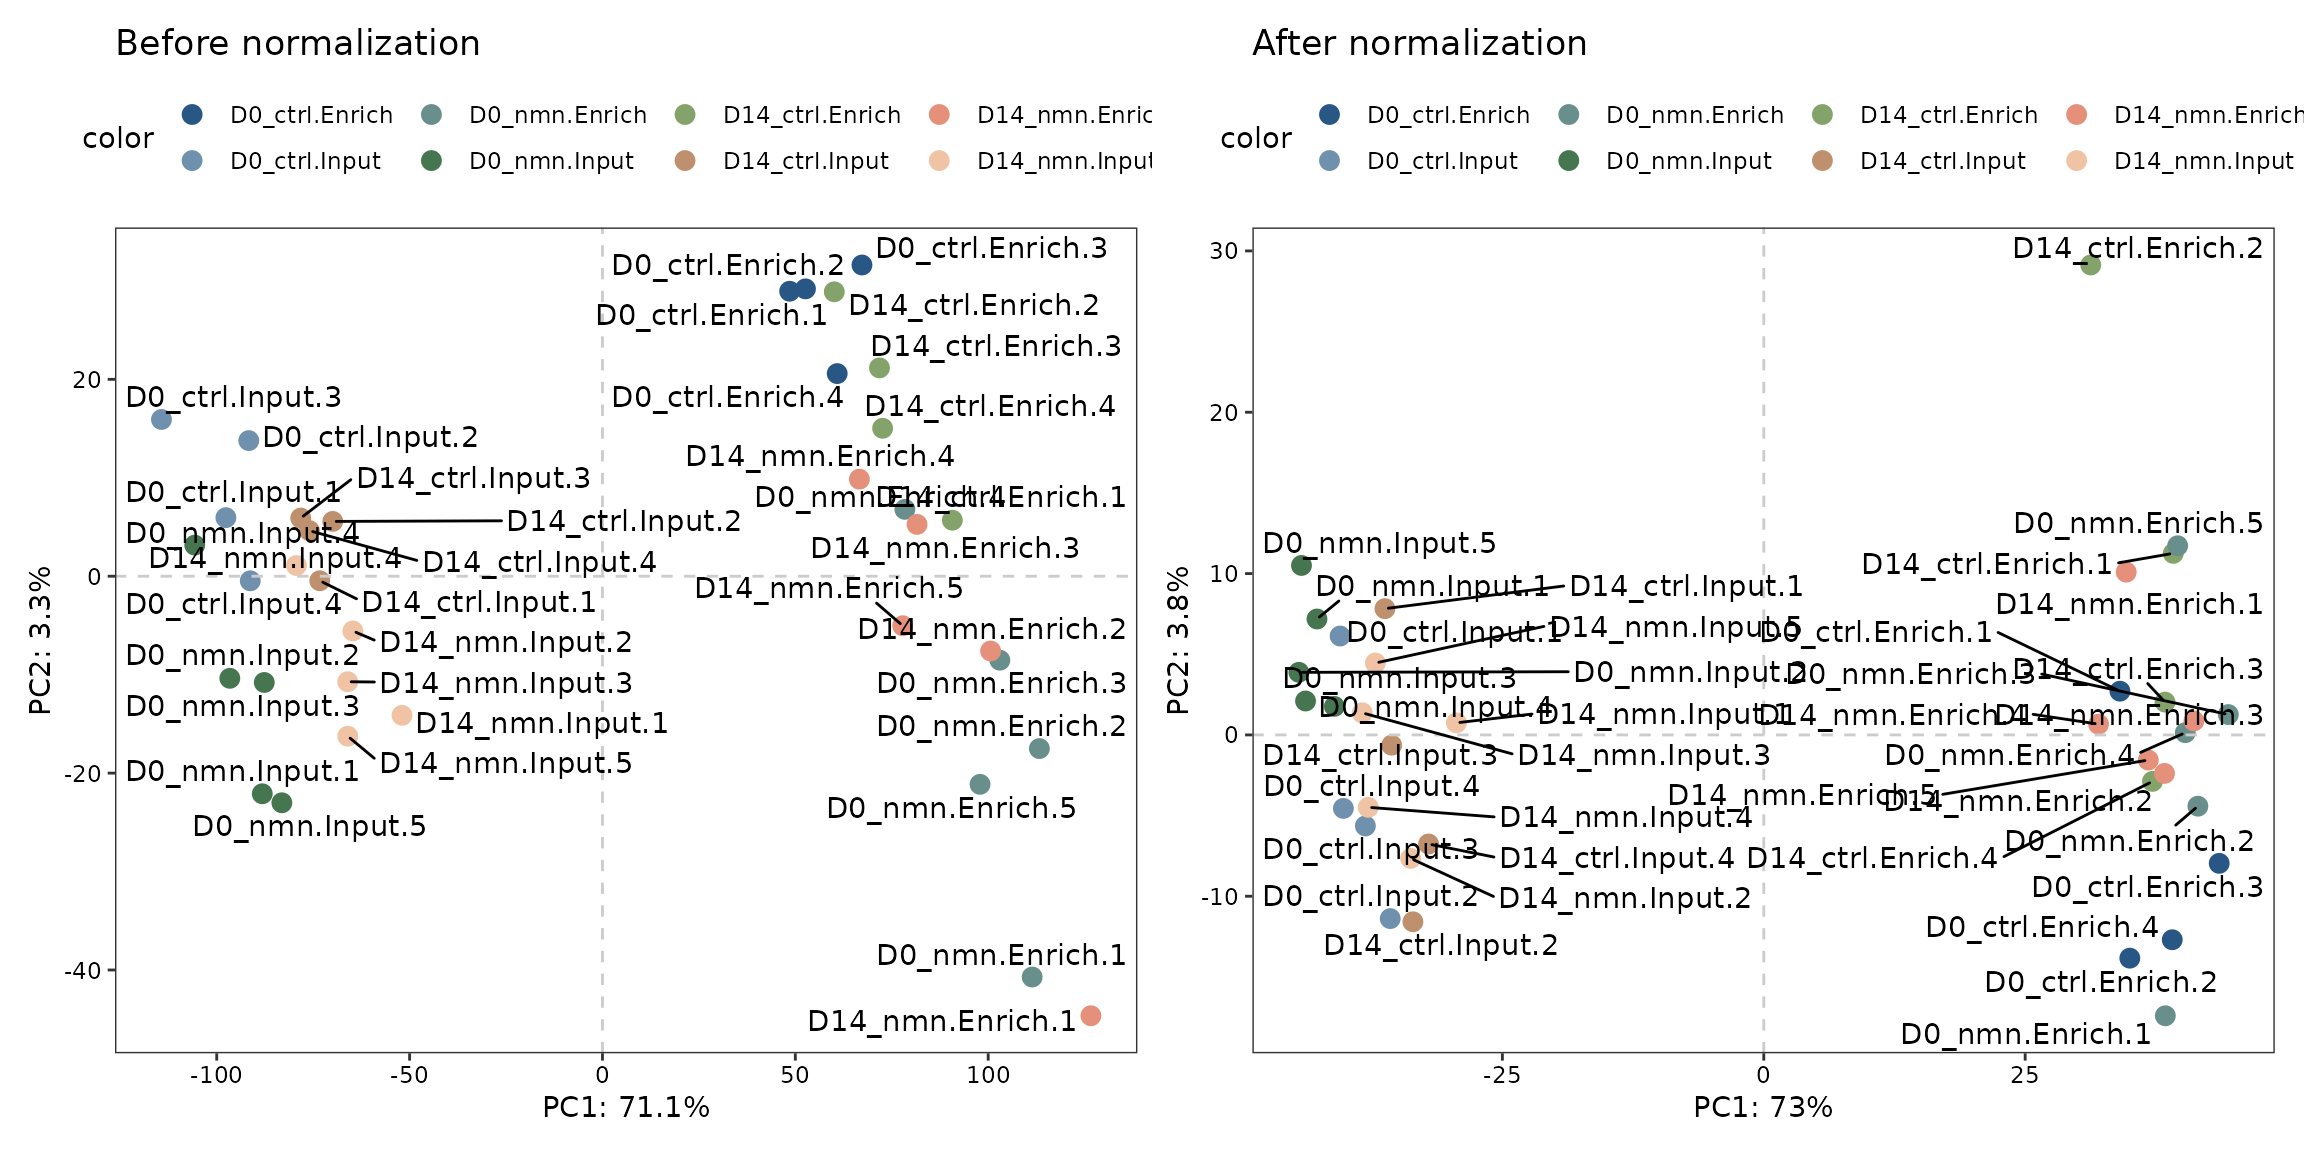
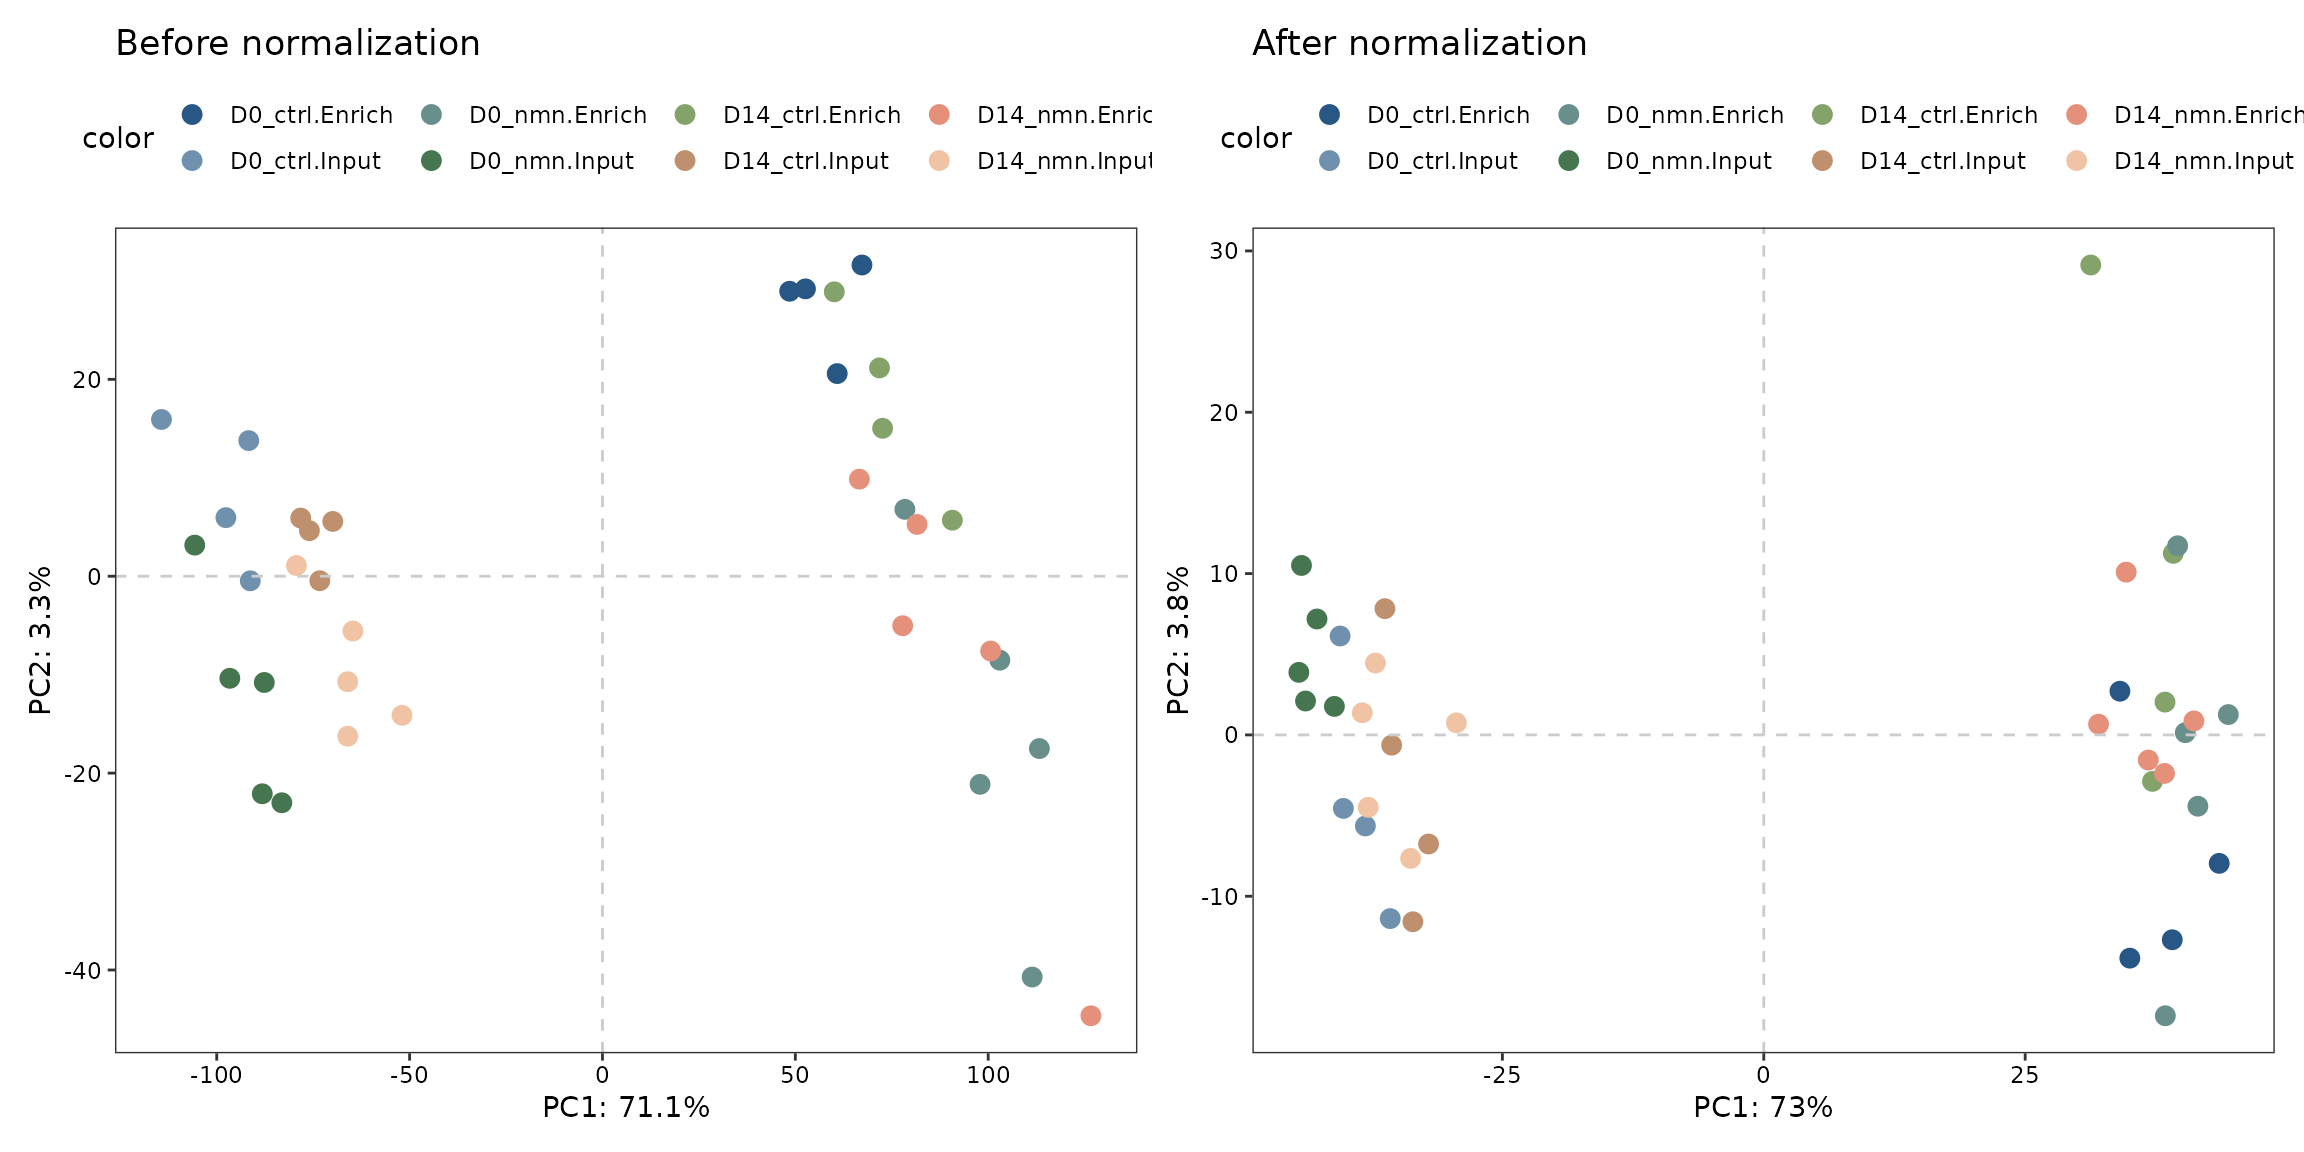
Deploying to gh-pages from @ thereallda/enONE@a7009a5155db5d42bd4f8777e02ee4b5a869709d 🚀

diff --git a/articles/enONE_tutorial.html b/articles/enONE_tutorial.html
@@ -109,7 +109,7 @@ organism with well-annotated genome sequence, for estimating the
 unwanted variation; 2) synthetic RNAs, consisting of 5% NAD- relative to
 m7G-capped forms, were used to determine the capture sensitivity; 3)
 synthetic RNAs, with 100% m7G-capped forms, were used to determine the
-capture specificity (Figure 2A).</p>
+capture specificity (Figure below).</p>
 <p>There are 36 samples that were sequenced on the Illumina Novaseq
 6000. The raw data can be found at <a href="https://www.ncbi.nlm.nih.gov/geo/query/acc.cgi?&amp;acc=GSE221133" class="external-link">GSE221133</a>.</p>
 <p><img src="images/paste-BE49259B.png"></p>
@@ -285,9 +285,10 @@ genes for evaluation of the unwanted variations.</p></li>
 samples of interest, ranked by edgeR FDR values, as positive evaluation
 genes for evaluation of the wanted variations.</p></li>
 </ul>
-<p>Gene selection can either be automatically defined in
-<code>enONE</code> function with <code>auto=TRUE</code> parameter, or be
-provided in <code>neg.control, pos.eval, neg.eval</code> parameters,
+<p>Gene set selection can either be automatically defined in
+<code>enONE</code> function with <code>auto=TRUE</code> parameter
+(default), or be provided in
+<code>neg.control, pos.eval, neg.eval</code> parameters,
 respectively.</p>
 <p>Selected gene sets can be assessed by <code>getGeneSet</code> with
 the name of gene set (i.e., <code>"NegControl"</code>,
@@ -378,16 +379,16 @@ maximum average silhouette width of clusters defined by PAM clustering
 (cluster by <code>eval.pam.k</code>), computed with the Euclidean
 distance metric over the first 3 expression PCs (default). Large values
 of <code>BAT_SIM</code> is desirable.</p></li>
-<li><p><code>WV_COR</code>: Preservation of biological variation. R^2
-measure for regression of first 3 expression PCs on first
+<li><p><code>WV_COR</code>: Preservation of biological variation.
+R<sup>2</sup> measure for regression of first 3 expression PCs on first
 <code>eval.pc.n</code> PCs of the positive evaluation genes
 (<code>PosEvaluation</code>) sub-matrix of the raw count. Large values
 of <code>WV_COR</code> is desirable.</p></li>
-<li><p><code>UV_COR</code>: Removal of unwanted variation. R^2 measure
-for regression of first 3 expression PCs on first <code>eval.pc.n</code>
-PCs of the negative evaluation genes (<code>NegEvaluation</code>)
-sub-matrix of the raw count. Low values of <code>UV_COR</code> is
-desirable.</p></li>
+<li><p><code>UV_COR</code>: Removal of unwanted variation. R<sup>2</sup>
+measure for regression of first 3 expression PCs on first
+<code>eval.pc.n</code> PCs of the negative evaluation genes
+(<code>NegEvaluation</code>) sub-matrix of the raw count. Low values of
+<code>UV_COR</code> is desirable.</p></li>
 <li><p><code>RLE_MED</code>: The mean squared-median Relative Log
 Expression (RLE). Low values of <code>RLE_MED</code> is
 desirable.</p></li>
@@ -464,15 +465,14 @@ analysis.</p>
 <span><span class="co">#&gt; [1] "TMM_RUVse_k3"</span></span></code></pre></div>
 <blockquote>
 <p>To be noted, if normalized counts are not returned in
-<code>enONE</code> run step, you have to mannually perform the
-normalization method, before get the corresponding normalized counts,
-e.g.,</p>
-</blockquote>
+<code>enONE</code> run step (i.e., <code>return.norm=FALSE</code>), you
+can manually perform the normalization method, e.g.,</p>
 <div class="sourceCode" id="cb13"><pre class="downlit sourceCode r">
 <code class="sourceCode R"><span><span class="co"># perform normalization</span></span>
 <span><span class="va">Enone</span> <span class="op">&lt;-</span> <span class="fu"><a href="../reference/UseNormalization.html">UseNormalization</a></span><span class="op">(</span><span class="va">Enone</span>, slot <span class="op">=</span> <span class="st">'sample'</span>, method <span class="op">=</span> <span class="st">'TMM_RUVse_k3'</span><span class="op">)</span></span>
 <span><span class="co"># get normalized counts</span></span>
 <span><span class="va">norm.data</span> <span class="op">&lt;-</span> <span class="fu"><a href="../reference/Counts.html">Counts</a></span><span class="op">(</span><span class="va">Enone</span>, slot <span class="op">=</span> <span class="st">'sample'</span>, method <span class="op">=</span> <span class="va">norm.method</span><span class="op">)</span></span></code></pre></div>
+</blockquote>
 </div>
 <div class="section level2">
 <h2 id="effect-of-normalization">Effect of normalization<a class="anchor" aria-label="anchor" href="#effect-of-normalization"></a>
@@ -487,14 +487,16 @@ normalization.</p>
 <span><span class="co"># PCA for raw count</span></span>
 <span><span class="va">p1</span> <span class="op">&lt;-</span> <span class="fu"><a href="../reference/PCAplot.html">PCAplot</a></span><span class="op">(</span><span class="fu"><a href="https://rdrr.io/r/base/Log.html" class="external-link">log1p</a></span><span class="op">(</span><span class="fu"><a href="../reference/Counts.html">Counts</a></span><span class="op">(</span><span class="va">Enone</span>, slot<span class="op">=</span><span class="st">'sample'</span>, <span class="st">'Raw'</span><span class="op">)</span><span class="op">)</span>, </span>
 <span>            color <span class="op">=</span> <span class="va">Enone</span><span class="op">$</span><span class="va">condition</span>,</span>
-<span>            label <span class="op">=</span> <span class="va">samples_name</span>, vst.norm <span class="op">=</span> <span class="cn">FALSE</span><span class="op">)</span> <span class="op">+</span> </span>
+<span>            label <span class="op">=</span> <span class="cn">NULL</span>, vst.norm <span class="op">=</span> <span class="cn">FALSE</span><span class="op">)</span> <span class="op">+</span> </span>
 <span>  <span class="fu"><a href="https://ggplot2.tidyverse.org/reference/labs.html" class="external-link">ggtitle</a></span><span class="op">(</span><span class="st">'Before normalization'</span><span class="op">)</span></span>
 <span></span>
 <span><span class="co"># PCA for normalized count</span></span>
 <span><span class="va">p2</span> <span class="op">&lt;-</span> <span class="fu"><a href="../reference/PCAplot.html">PCAplot</a></span><span class="op">(</span><span class="fu"><a href="https://rdrr.io/r/base/Log.html" class="external-link">log1p</a></span><span class="op">(</span><span class="va">norm.data</span><span class="op">)</span>, </span>
 <span>            color <span class="op">=</span> <span class="va">Enone</span><span class="op">$</span><span class="va">condition</span>,</span>
-<span>            label <span class="op">=</span> <span class="va">samples_name</span>, vst.norm <span class="op">=</span> <span class="cn">FALSE</span><span class="op">)</span> <span class="op">+</span> </span>
+<span>            label <span class="op">=</span> <span class="cn">NULL</span>, vst.norm <span class="op">=</span> <span class="cn">FALSE</span><span class="op">)</span> <span class="op">+</span> </span>
 <span>  <span class="fu"><a href="https://ggplot2.tidyverse.org/reference/labs.html" class="external-link">ggtitle</a></span><span class="op">(</span><span class="st">'After normalization'</span><span class="op">)</span></span>
+<span></span>
+<span><span class="co"># combine two plots</span></span>
 <span><span class="va">p1</span> <span class="op">+</span> <span class="va">p2</span></span></code></pre></div>
 <p><img src="enONE_tutorial_files/figure-html/unnamed-chunk-15-1.png" width="1152"></p>
 </div>
@@ -517,8 +519,10 @@ result tables.</p>
 <code class="sourceCode R"><span><span class="co"># find all enriched genes</span></span>
 <span><span class="va">Enone</span> <span class="op">&lt;-</span> <span class="fu"><a href="../reference/FindEnrichment.html">FindEnrichment</a></span><span class="op">(</span><span class="va">Enone</span>, slot<span class="op">=</span><span class="st">'sample'</span>, method <span class="op">=</span> <span class="va">norm.method</span>, </span>
 <span>                        logfc.cutoff <span class="op">=</span> <span class="fl">1</span>, p.cutoff <span class="op">=</span> <span class="fl">0.05</span><span class="op">)</span></span>
+<span></span>
 <span><span class="co"># get filtered enrichment results</span></span>
 <span><span class="va">res.sig.ls</span> <span class="op">&lt;-</span> <span class="fu"><a href="../reference/getEnrichment.html">getEnrichment</a></span><span class="op">(</span><span class="va">Enone</span>, slot<span class="op">=</span><span class="st">'sample'</span>, filter<span class="op">=</span><span class="cn">TRUE</span><span class="op">)</span></span>
+<span></span>
 <span><span class="co"># count number of enrichment in each group</span></span>
 <span><span class="fu"><a href="https://rdrr.io/r/base/unlist.html" class="external-link">unlist</a></span><span class="op">(</span><span class="fu"><a href="https://rdrr.io/r/base/lapply.html" class="external-link">lapply</a></span><span class="op">(</span><span class="va">res.sig.ls</span>, <span class="va">nrow</span><span class="op">)</span><span class="op">)</span></span>
 <span><span class="co">#&gt;   D0_ctrl.Enrich_D0_ctrl.Input D14_ctrl.Enrich_D14_ctrl.Input </span></span>
@@ -563,10 +567,13 @@ modification level between groups.</p>
 <div class="sourceCode" id="cb17"><pre class="downlit sourceCode r">
 <code class="sourceCode R"><span><span class="co"># simplify group id</span></span>
 <span><span class="fu"><a href="https://rdrr.io/r/base/names.html" class="external-link">names</a></span><span class="op">(</span><span class="va">res.sig.ls</span><span class="op">)</span> <span class="op">&lt;-</span> <span class="fu"><a href="https://rdrr.io/r/base/c.html" class="external-link">c</a></span><span class="op">(</span><span class="st">'D0.Water'</span>, <span class="st">'D14.Water'</span>, <span class="st">'D0.NMN'</span>, <span class="st">'D14.NMN'</span><span class="op">)</span></span>
+<span></span>
 <span><span class="co"># logfc.col specify the name of logFC column</span></span>
 <span><span class="va">nad_df1</span> <span class="op">&lt;-</span> <span class="fu"><a href="../reference/reduceRes.html">reduceRes</a></span><span class="op">(</span><span class="va">res.sig.ls</span>, logfc.col <span class="op">=</span> <span class="st">'logFC'</span><span class="op">)</span></span>
+<span></span>
 <span><span class="co"># convert the Group column as factor</span></span>
 <span><span class="va">nad_df1</span><span class="op">$</span><span class="va">Group</span> <span class="op">&lt;-</span> <span class="fu"><a href="https://rdrr.io/r/base/factor.html" class="external-link">factor</a></span><span class="op">(</span><span class="va">nad_df1</span><span class="op">$</span><span class="va">Group</span>, levels <span class="op">=</span> <span class="fu"><a href="https://rdrr.io/r/base/unique.html" class="external-link">unique</a></span><span class="op">(</span><span class="va">nad_df1</span><span class="op">$</span><span class="va">Group</span><span class="op">)</span><span class="op">)</span></span>
+<span></span>
 <span><span class="co"># draw plot</span></span>
 <span><span class="va">bxp1</span> <span class="op">&lt;-</span> <span class="fu"><a href="../reference/BetweenStatPlot.html">BetweenStatPlot</a></span><span class="op">(</span><span class="va">nad_df1</span>, x<span class="op">=</span><span class="st">'Group'</span>, y<span class="op">=</span><span class="st">'logFC'</span>, color<span class="op">=</span><span class="st">'Group'</span>, </span>
 <span>                        step.increase <span class="op">=</span> <span class="fl">0.6</span>, add.p <span class="op">=</span> <span class="st">'p'</span>, </span>
@@ -578,12 +585,13 @@ modification level between groups.</p>
 <div class="section level2">
 <h2 id="handling-synthetic-spike-in-rna">Handling synthetic spike-in RNA<a class="anchor" aria-label="anchor" href="#handling-synthetic-spike-in-rna"></a>
 </h2>
-<p>Since synthetic RNA, of which one with 5% NAD-caps and another with
-100% m7G-caps, are included, we can determine the capture sensitivity
-and specificity.</p>
+<p>Since synthetic RNAs, of which one with 5% NAD-caps and another with
+100% m7G-caps, are included, we can use these spike-ins to determine the
+capture sensitivity and specificity.</p>
 <p><code>synEnrichment</code> calculate the enrichment levels of
-spike-in with given normalization method. <code>DotPlot</code> can be
-used to visualize the enrichment levels of synthetic spike-in.</p>
+synthetic spike-ins with given normalization method.
+<code>DotPlot</code> can be used to visualize the enrichment levels of
+synthetic spike-in.</p>
 <div class="sourceCode" id="cb18"><pre class="downlit sourceCode r">
 <code class="sourceCode R"><span><span class="co"># compute synthetic spike-in enrichment</span></span>
 <span><span class="va">syn_level</span> <span class="op">&lt;-</span> <span class="fu"><a href="../reference/synEnrichment.html">synEnrichment</a></span><span class="op">(</span><span class="va">Enone</span>, method<span class="op">=</span><span class="va">norm.method</span>, log<span class="op">=</span><span class="cn">TRUE</span><span class="op">)</span></span>

diff --git a/reference/PS.Est.Depth.html b/reference/PS.Est.Depth.html
@@ -92,7 +92,7 @@
     <h2 id="ref-examples">Examples<a class="anchor" aria-label="anchor" href="#ref-examples"></a></h2>
     <div class="sourceCode"><pre class="sourceCode r"><code><span class="r-in"><span><span class="va">mat</span> <span class="op">&lt;-</span> <span class="fu"><a href="https://rdrr.io/r/base/matrix.html" class="external-link">matrix</a></span><span class="op">(</span><span class="fu"><a href="https://rdrr.io/r/stats/NegBinomial.html" class="external-link">rnbinom</a></span><span class="op">(</span><span class="fl">300</span>, mu<span class="op">=</span><span class="fl">100</span>, size<span class="op">=</span><span class="fl">1</span><span class="op">)</span>, ncol<span class="op">=</span><span class="fl">5</span><span class="op">)</span></span></span>
 <span class="r-in"><span><span class="fu">PS.Est.Depth</span><span class="op">(</span><span class="va">mat</span><span class="op">)</span></span></span>
-<span class="r-out co"><span class="r-pr">#&gt;</span> [1] 0.7079551 1.0010769 1.1609922 1.3388262 0.9077648</span>
+<span class="r-out co"><span class="r-pr">#&gt;</span> [1] 1.2165776 1.2211414 0.9932776 0.8335447 0.8130077</span>
 <span class="r-in"><span></span></span>
 </code></pre></div>
     </div>
